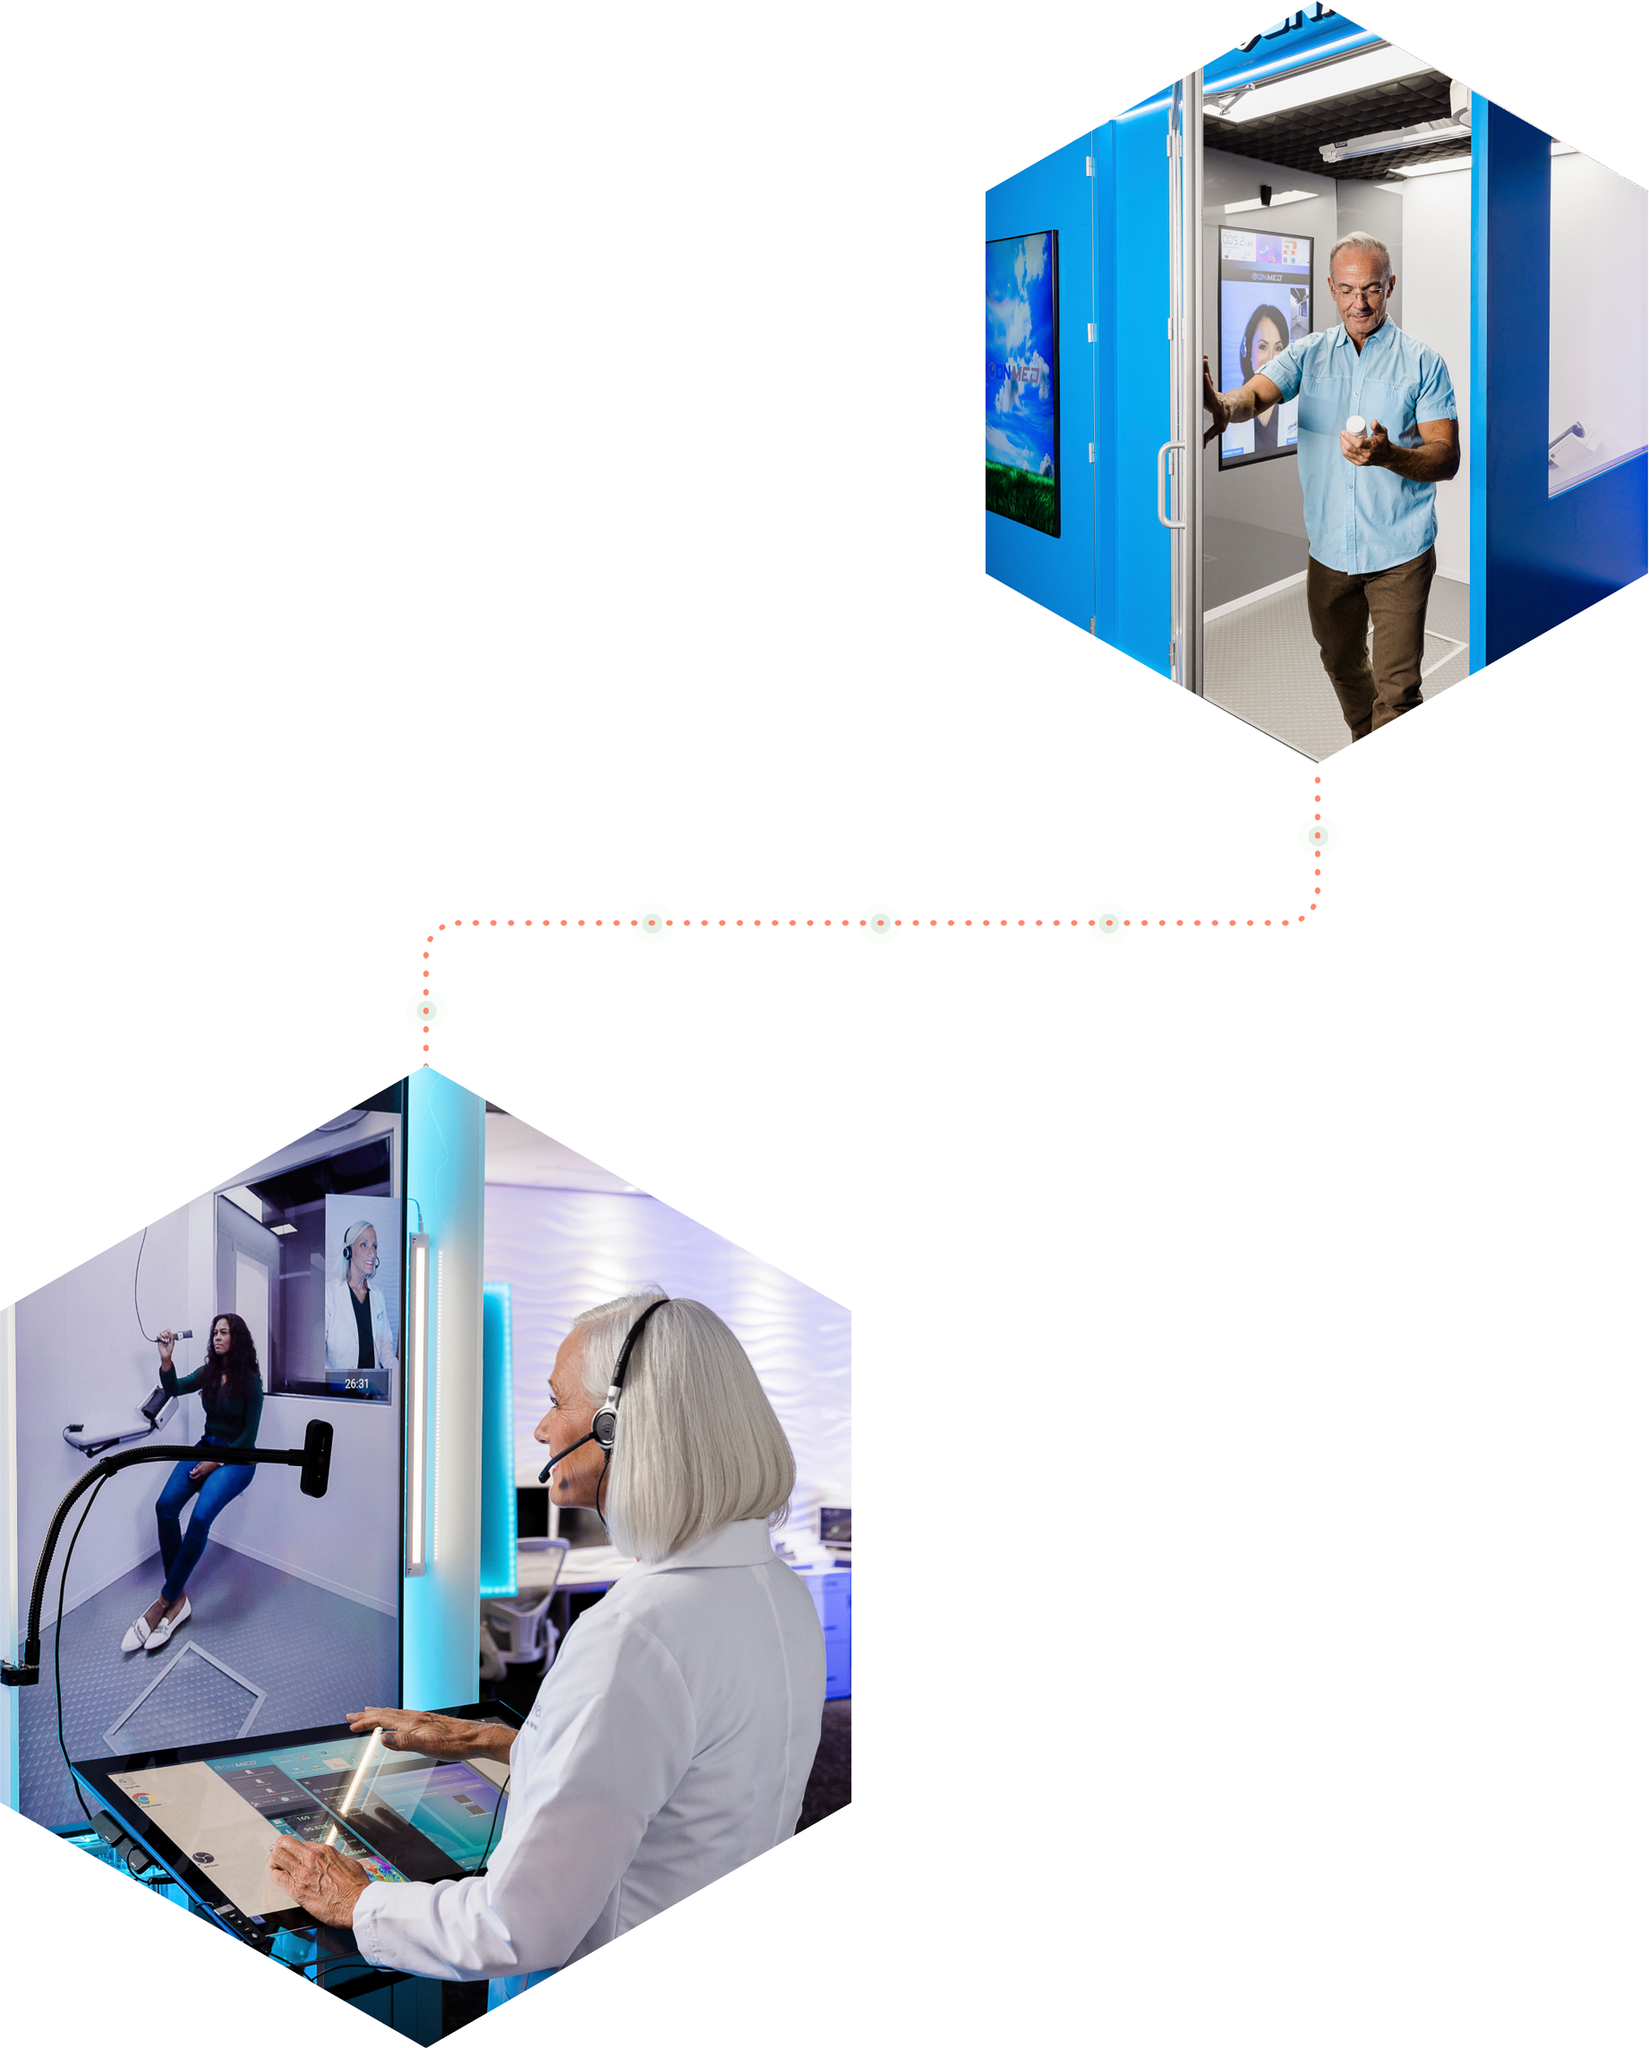
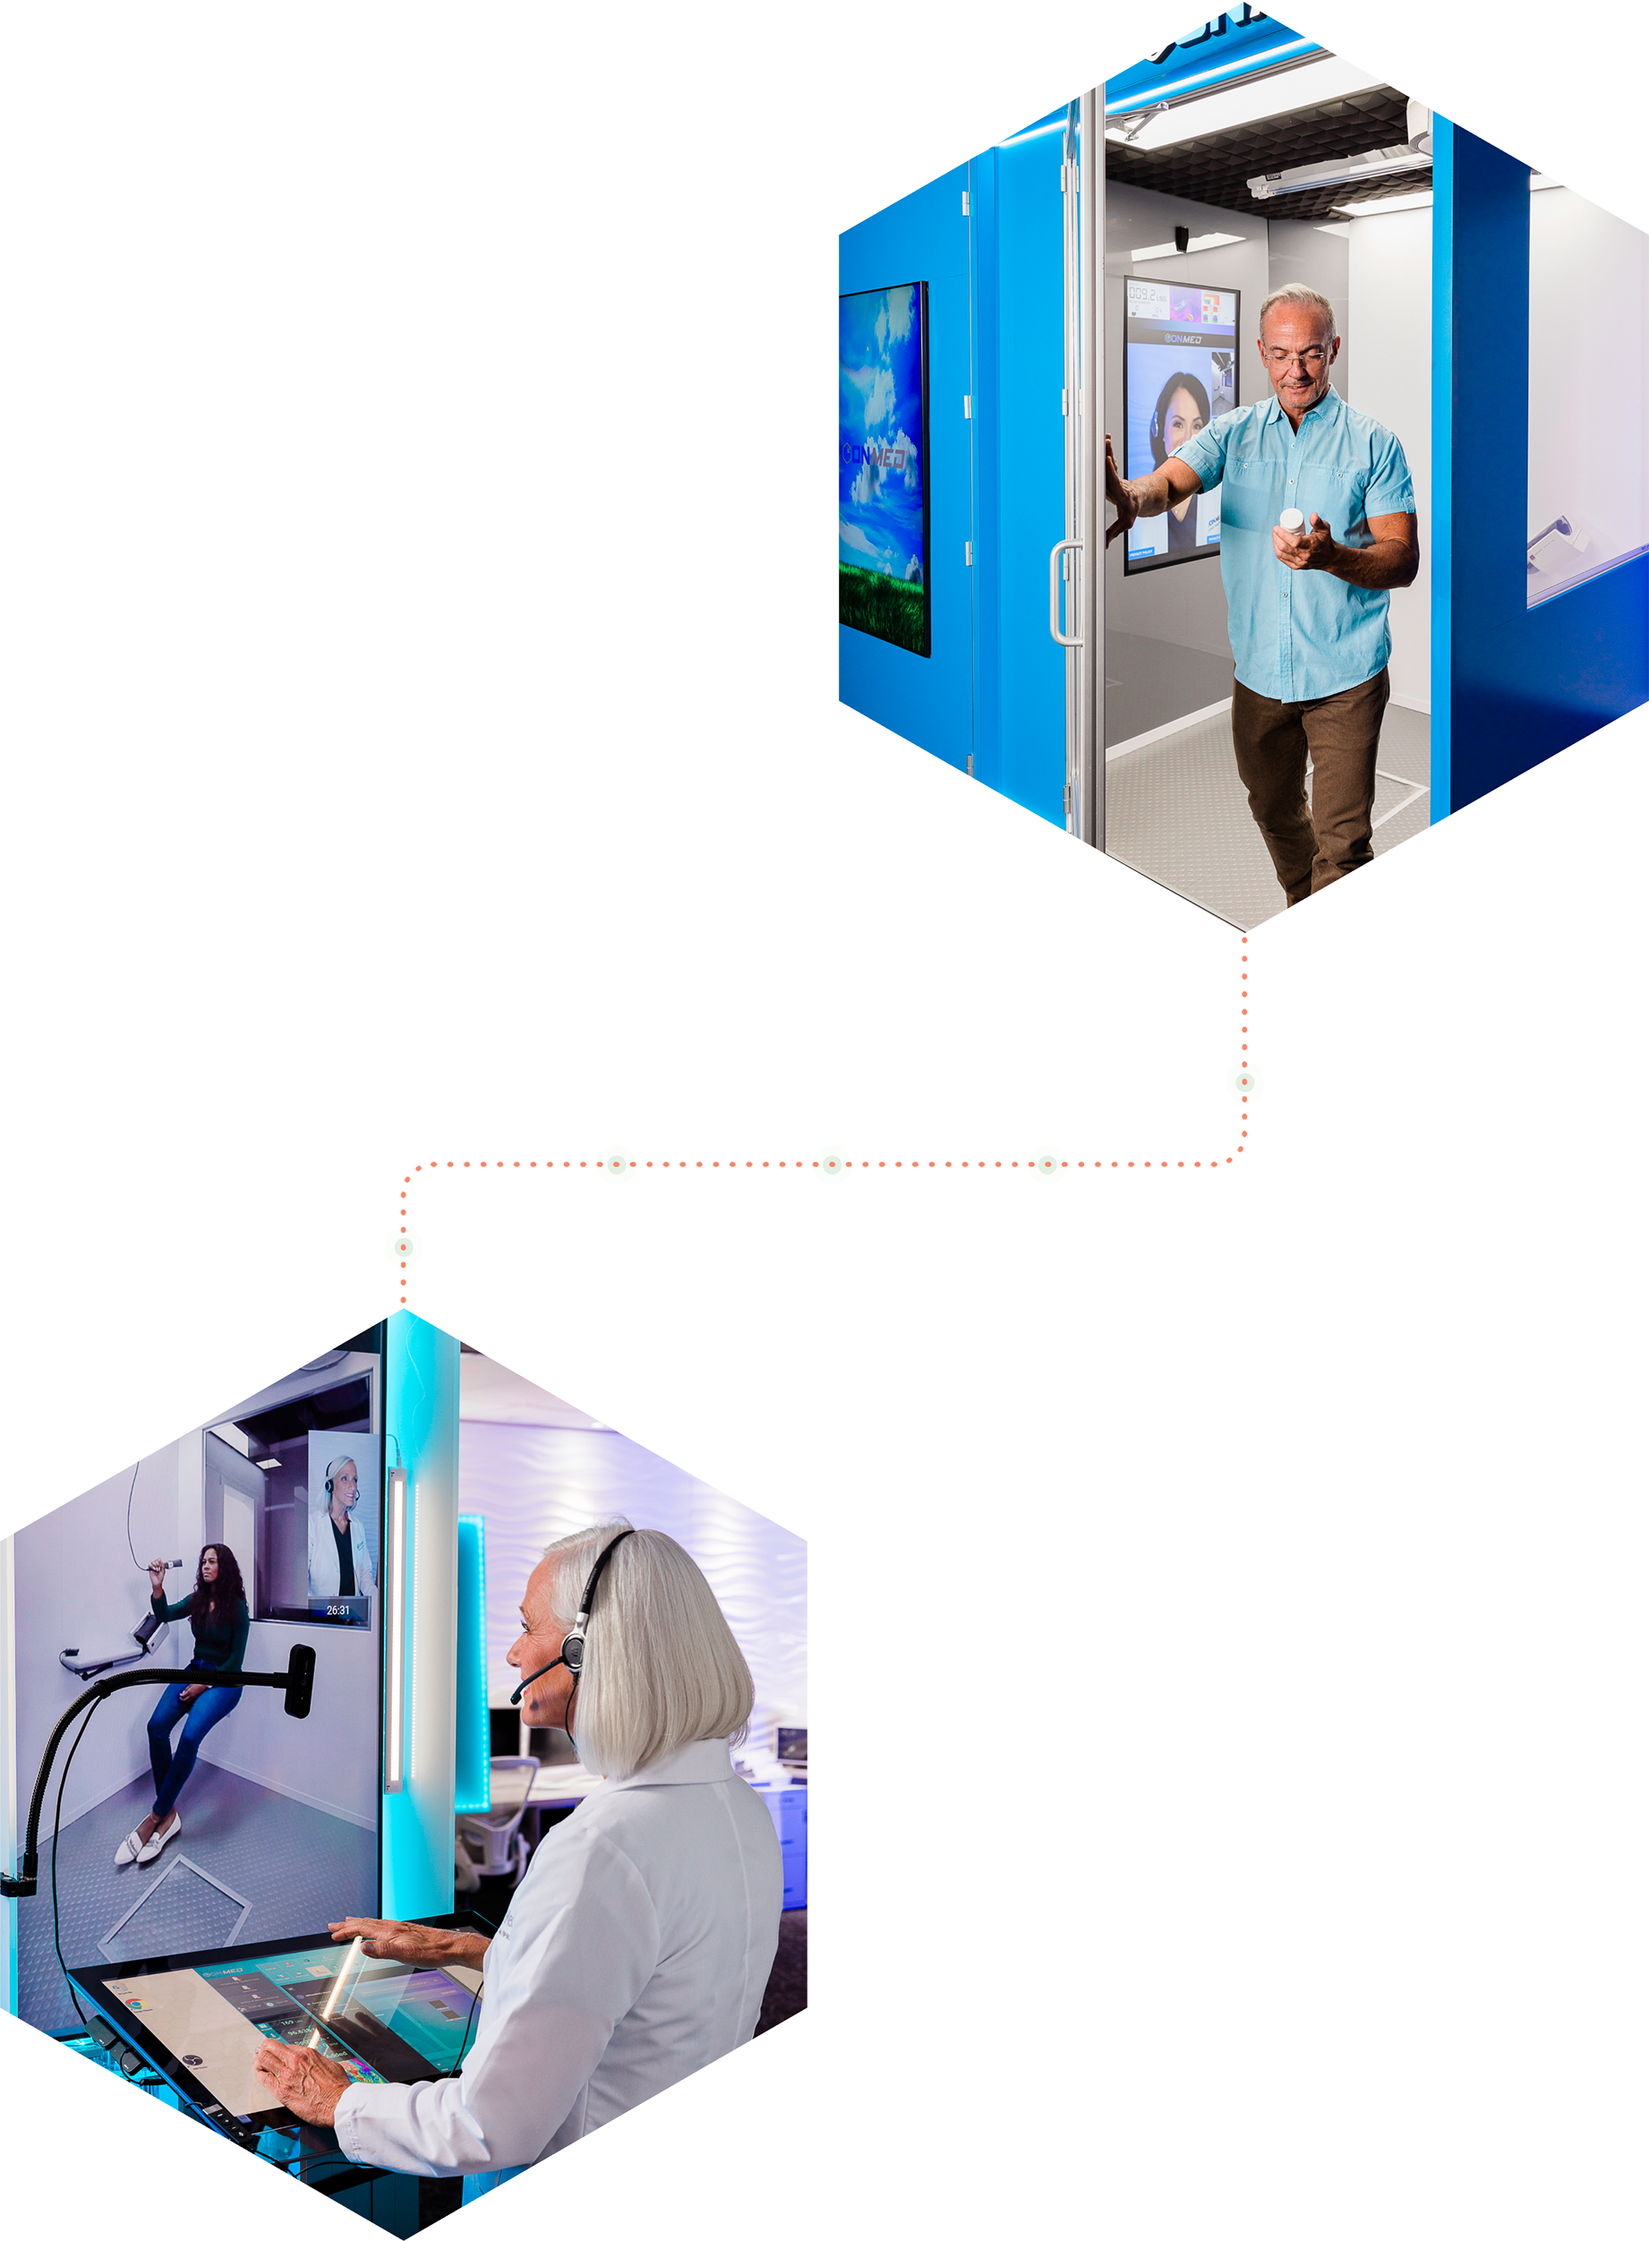
Home hex images

diff --git a/src/sass/components/_images.scss b/src/sass/components/_images.scss
@@ -27,7 +27,6 @@ $img-hex-width: 112px;
             width: $img-hex-width;
         }
         @include media-breakpoint-up(lg) {
-            display: block;
             height: $img-hex-height * 0.75;
             width: $img-hex-width * 0.75;
         }
@@ -44,38 +43,47 @@ $img-hex-width: 112px;
             padding-right: 0;
         }
     }
-    @include media-breakpoint-up(lg) {
-        margin-left: 1.5rem;
-        margin-right: 1.5rem;
-        &:before {
-            left: 11%;
-            top: -5%;
-        }
-        &:after {
-            right: -20.7%;
-            top: 8.7%;
-        }
-    }
+    // @include media-breakpoint-up(lg) {
+    //     &:before {
+    //         right: -15%;
+    //         top: 25%;
+    //         // border: 1px solid red;
+    //     }
+    //     &:after {
+    //         right: 2.5%;
+    //         top: 2.7%;
+    //         // border: 1px solid yellow;
+    //         display: block;
+    //     }
+    // }
+
     @include media-breakpoint-up(xl) {
-        margin-left: 4.5rem;
-        margin-right: 4.5rem;
-        &:before {
-            left: 10%;
-            top: -4%;
-        }
+        // &:before {
+        //     right: -15%;
+        //     top: 25%;
+        // }
         &:after {
-            right: -28.8%;
-            top: 3.5%;
+            right: 2.5%;
+            top: 2.7%;
+            display: block;
         }
     }
+
     @include media-breakpoint-up(xxl) {
         &:before {
-            left: 15%;
-            top: -4%;
+            right: -15%;
+            top: 25%;
+            // display: block;
         }
-        &:after {
-            right: -23.3%;
-            top: 7.5%;
+        // &:after {
+        //     right: 2.5%;
+        //     top: 2.7%;
+        // }
+    }
+    @media (min-width: 1510px) {
+        &:before {
+            display: block;
+            // border: 1px solid blue;
         }
     }
 }
@@ -93,39 +101,54 @@ $img-hex-width: 112px;
         }
     }
 
-    @include media-breakpoint-up(lg) {
-        &:after {
-            right: -35%;
-            top: 44.5%;
-        }
-    }
+    // @include media-breakpoint-up(lg) {
+    //     &:after {
+    //         right: -24.3%;
+    //         top: 37.4%;
+    //         // border: 1px solid pink;
+    //     }
+    // }
 
-    @include media-breakpoint-up(xl) {
-        &:after {
-            right: -54%;
-            top: 40.5%;
-        }
-    }
+    // @include media-breakpoint-up(xl) {
+    //     &:after {
+    //         right: -24.9%;
+    //         top: 38.4%;
+    //     }
+    // }
 
     @include media-breakpoint-up(xxl) {
         &:after {
-            right: -35%;
-            top: 44.5%;
+            right: -24%;
+            top: 36.5%;
+        }
+    }
+
+    @media (min-width: 1630px) {
+        &:after {
+            display: block;
         }
     }
 }
 
 .hex-and-dots {
+    padding-bottom: 100px;
+    @include media-breakpoint-up(lg) {
+        padding-bottom: 54px;
+    }
+    @include media-breakpoint-up(xl) {
+        padding-bottom: 80px;
+    }
+
     position: relative;
 
     &--img {
-        @include media-breakpoint-up(xl) {
+        @include media-breakpoint-up(lg) {
             visibility: hidden;
         }
     }
 
     &--text {
-        @include media-breakpoint-up(xl) {
+        @include media-breakpoint-up(lg) {
             z-index: 4;
         }
     }
@@ -133,15 +156,20 @@ $img-hex-width: 112px;
     &--bg {
         position: absolute;
         aspect-ratio: 1227 / 1523;
-        width: 1013px;
+        width: 927px;
         z-index: 3;
         top: -3px;
         right: 0;
-        @include media-breakpoint-down(xl) {
-            display: none;
+        display: none;
+
+        @include media-breakpoint-up(lg) {
+            display: block;
+        }
+        @include media-breakpoint-up(xl) {
+            width: 1115px;
         }
         @include media-breakpoint-up(xxl) {
-            width: 1227px;
+            width: 1297px;
             top: 0;
         }
     }

diff --git a/src/pages/index.js b/src/pages/index.js
@@ -32,7 +32,7 @@ const IndexPage = ({ data }) => {
     const sectionIntro = (
         <section className="section-home-intro bg-cloud pt-4 py-md-6">
             <div className="container section-home-intro--inner">
-                <div className="row justify-content-between gx-6">
+                <div className="row justify-content-between">
                     <div className="col-md-7 col-lg-6 hex-and-dots--text">
                         <div className="d-flex align-items-center text-center text-md-start ">
                             <div className="me-xl-4">
@@ -75,17 +75,17 @@ const IndexPage = ({ data }) => {
         <section className="bg-hex-dark-many">
             <div className="container py-4 py-md-6">
                 <div className="row justify-content-between mt-lg-6 pt-lg-6">
-                    <div className="col-lg-6 col-xxl-6 d-none d-lg-block">
+                    <div className="col-lg-6 d-none d-lg-block">
                         <div id="start">
-                            <ImgWomanThouchscreen
+                            {/* <ImgWomanThouchscreen
                                 alt="Woman with touch screen watching video of woman in station"
                                 className="hex-and-dots--img mask-image--hex"
-                            />
+                            /> */}
                         </div>
                     </div>
 
-                    <div className="col-lg-6 col-xxl-6 hex-and-dots--text">
-                        <div className="ms-lg-6">
+                    <div className="col-lg-6 hex-and-dots--text">
+                        <div className="ms-md-4 ms-xl-6">
                             <h2 className="text-primary">
                                 We create real connections between patients and
                                 clinicians, virtually anywhere

diff --git a/src/components/images/woman-touchscreen.js b/src/components/images/woman-touchscreen.js
@@ -6,7 +6,8 @@ export function ImgWomanThouchscreen(props) {
         <StaticImage
             src="../../../static/images/general/woman-lab-coat-touchscreen.jpg"
             alt={props.alt}
-            className={`img-fluid ${props.className}`}
+            className={props.className}
+            layout="fullWidth"
         />
     );
 }

diff --git a/src/components/images/man-booth-pills.js b/src/components/images/man-booth-pills.js
@@ -6,7 +6,8 @@ export function ImgManBoothPills(props) {
         <StaticImage
             src="../../../static/images/general/man-booth-pills.jpg"
             alt={props.alt}
-            className={`img-fluid ${props.className}`}
+            className={props.className}
+            layout="fullWidth"
         />
     );
 }

diff --git a/src/sass/pages/_home.scss b/src/sass/pages/_home.scss
@@ -1,11 +1,12 @@
 .section-home-intro {
     @include media-breakpoint-down(md) {
-        overflow-x: hidden;
+        // overflow-x: hidden;
     }
     @include media-breakpoint-up(xl) {
         overflow-y: visible;
     }
     &--inner {
+        // overflow-x: hidden;
         padding-top: $menu-primary-height;
     }
 }
